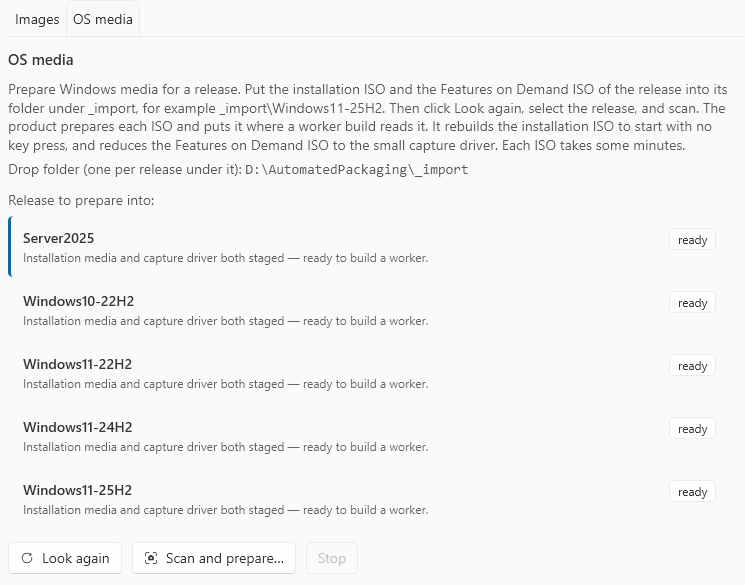
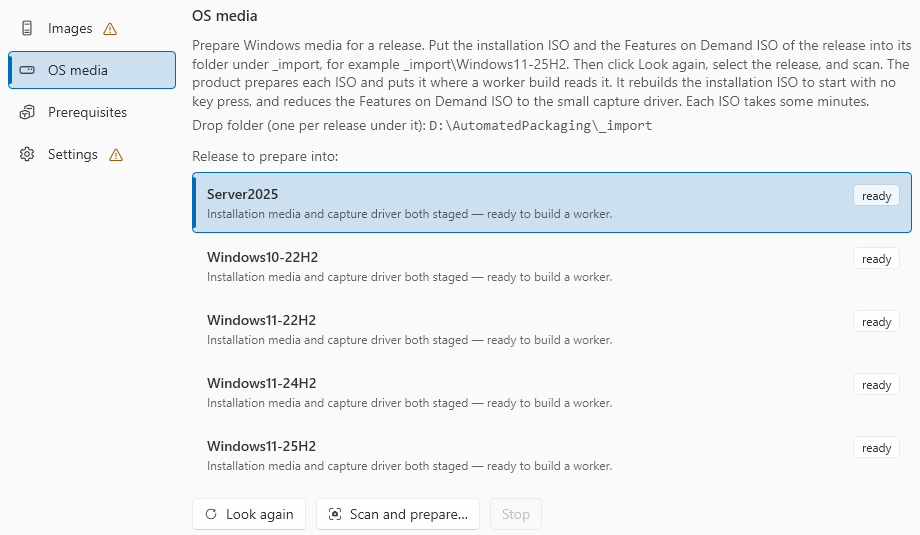
Automated Packaging: OS media is a navigation entry below Images (CH-716)
Stage media step 4 names the OS media entry and its waiting count; the
screenshot is the new screen, captured from the dev build. Not pushed.

diff --git a/docs/AutomatedPackaging/stage-media.md b/docs/AutomatedPackaging/stage-media.md
@@ -79,12 +79,12 @@ The folder name tells the product the release of the two ISOs. See [Supported Wi
 
 ## 4. Scan and prepare
 
-1. In the application, go to **Images**, then the **OS media** tab. While a release is not ready, the tab shows a count, for example **2 waiting**.
+1. In the application, go to **OS media** in the navigation, below **Images**. While a release is not ready, the **OS media** entry shows a count, for example **2 waiting**. You see the count from all screens. The entry is grey until this host is prepared, as **Build** and **Images** are.
 2. Click **Look again** after you add files or install the ADK. It reads the drop folders again, and checks again for `oscdimg`.
 3. Select the release under **Release to prepare into**.
 4. Click **Scan and prepare…**.
 
-![The OS media tab, with five releases ready](images/os-media.png)
+![The OS media screen, with five releases ready](images/os-media.png)
 
 The scan reads each ISO in the drop folder of that release:
 
